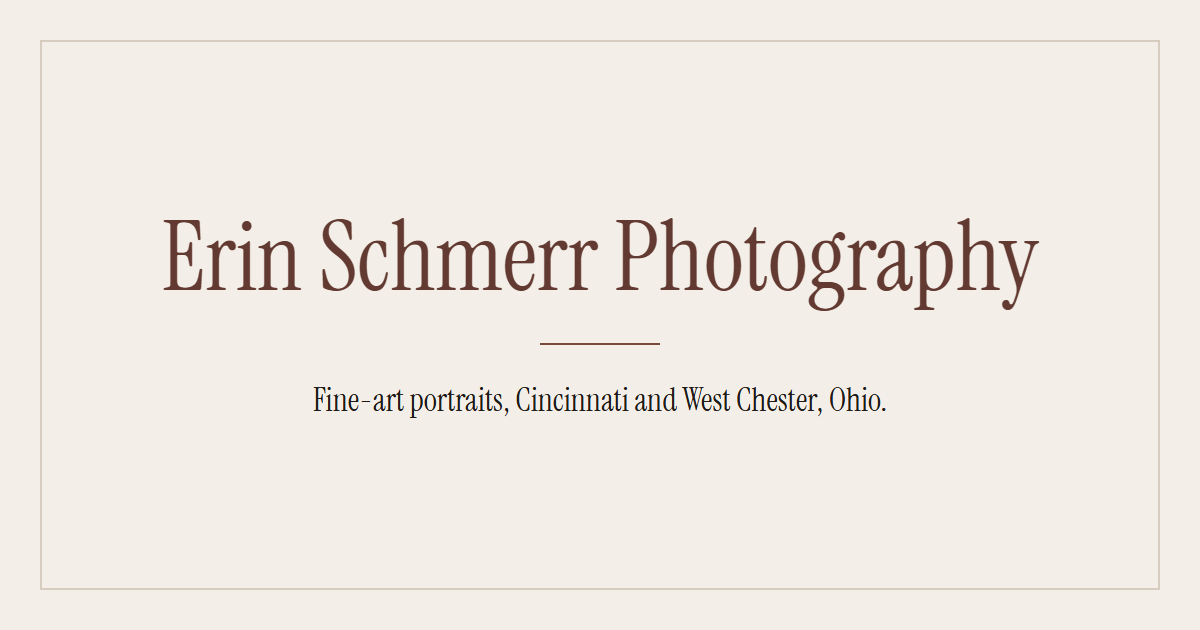
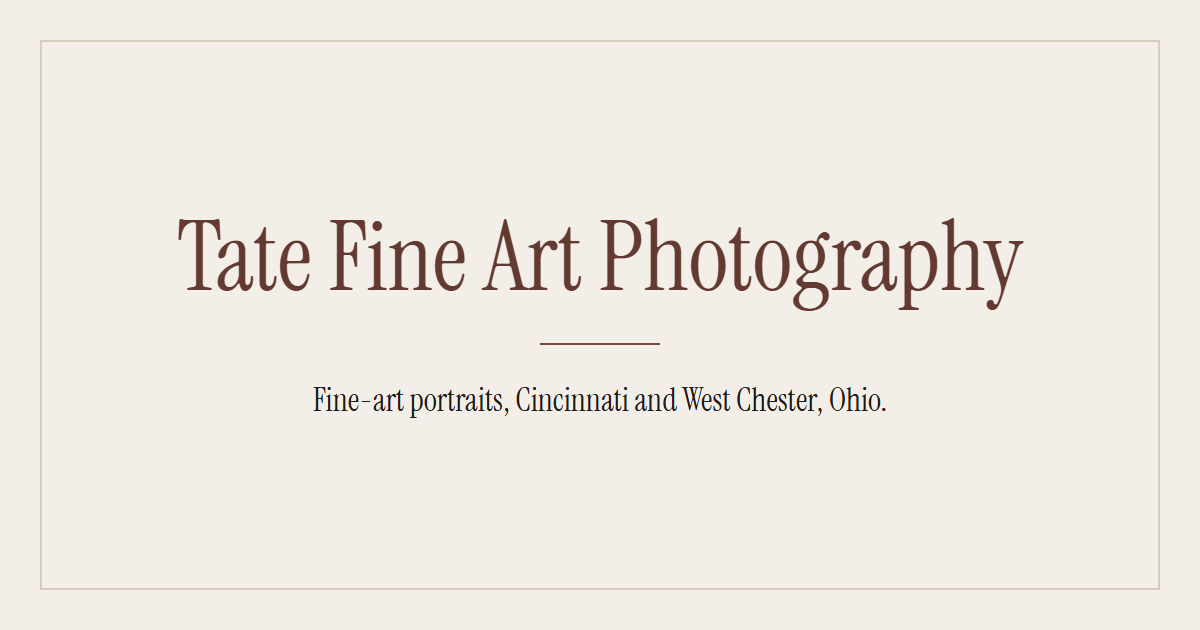
Brand: Tate Fine Art Photography
Her business name (renamed from Stellina in 2022, after her dad) replaces
'Erin Schmerr Photography' as the site name and wordmark: brand config
then apply-brand (site name, Studio title, print footer, OG default),
the drawn wordmark and favicon (build-wordmark.mjs: 'Tate' roman,
'Fine Art Photography' italic), the web manifest. Her own name stays in
the Person structured data. Site settings title was updated in Sanity
under the write protocol.

apply-brand now handles a light-only layout's single theme-color meta.

Changed region(s): [[0.1233, 0.3317, 0.8633, 0.5127]]

diff --git a/src/data/site.ts b/src/data/site.ts
@@ -20,7 +20,7 @@ function slugify(s: string): string {
 // All derived fields (studio, storageKeyPrefix, themeStorageKey) are computed
 // from `name` at module load time — they are never rewritten by the script and
 // can never go stale across reskins.
-const _name = 'Erin Schmerr Photography';
+const _name = 'Tate Fine Art Photography';
 const _domain = 'erin-schmerr-photography.nathanjnixon86.workers.dev';
 const _slug = slugify(_name);
 

diff --git a/src/styles/globals.css b/src/styles/globals.css
@@ -1516,7 +1516,7 @@ body::before {
 
   /* Print-only header + footer injected into every page. */
   body::after {
-    content: 'Erin Schmerr Photography · erin-schmerr-photography.nathanjnixon86.workers.dev';
+    content: 'Tate Fine Art Photography · erin-schmerr-photography.nathanjnixon86.workers.dev';
     display: block;
     margin-top: 0.5in;
     padding-top: 0.25in;

diff --git a/DESIGN.md b/DESIGN.md
@@ -1,5 +1,5 @@
 ---
-name: Erin Schmerr Photography, Soft Focus Editorial
+name: Tate Fine Art Photography, Soft Focus Editorial
 description: Warm paper, a big editorial serif, almost no chrome; photos resolve from blur into focus.
 colors:
   paper: '#F3EEE7'
@@ -31,7 +31,7 @@ components:
 
 # Design System: Soft Focus Editorial
 
-Direction chosen 2026-11-17 for the build on placeholder content. Two answers from the client can still move it: the brand name (wordmark only) and whether she would rather have a dark site (the site is light only since 2026-11-18; the dark tokens are still in the code, so bringing dark back is a small change). The CSS wins if this file and the code disagree: tokens live in `brand/brand.config.json`, written into `src/styles/globals.css` by `npm run apply-brand`; the site's own layer is `src/styles/erin.css`.
+Direction chosen 2026-11-17 for the build on placeholder content. The brand name is settled as Tate Fine Art Photography (2026-11-18; the wordmark sets "Tate" in Instrument Serif roman and "Fine Art Photography" in its italic, in Dusk). One answer from the client can still move it: whether she would rather have a dark site (the site is light only since 2026-11-18; the dark tokens are still in the code, so bringing dark back is a small change). The CSS wins if this file and the code disagree: tokens live in `brand/brand.config.json`, written into `src/styles/globals.css` by `npm run apply-brand`; the site's own layer is `src/styles/erin.css`.
 
 ## 1. Overview
 

diff --git a/CLAUDE.md b/CLAUDE.md
@@ -1,6 +1,6 @@
 # Erin Schmerr Photography website: CLAUDE.md
 
-Always-loaded rules for this repo, the portfolio site for Erin Schmerr, a fine-art portrait photographer in Cincinnati and West Chester, Ohio. This file stays under 200 lines on purpose. File-specific rules live in `.claude/rules/*.md` and load only when you touch matching files; long reference lives in `docs/claude/` and `docs/agent/` and is read on demand. The docs map at the bottom lists every one of them.
+Always-loaded rules for this repo, the portfolio site for Erin Schmerr, a fine-art portrait photographer in Cincinnati and West Chester, Ohio, whose business is **Tate Fine Art Photography** (the site name and wordmark since 2026-11-18; `brand/brand.config.json`, `scripts/build-wordmark.mjs`, Site settings title). The repo, Worker and pre-launch address keep the old `erin-schmerr-photography` slug. This file stays under 200 lines on purpose. File-specific rules live in `.claude/rules/*.md` and load only when you touch matching files; long reference lives in `docs/claude/` and `docs/agent/` and is read on demand. The docs map at the bottom lists every one of them.
 
 **This file is client-safe**: the repo is public and may be handed to the client, so it holds technical orientation only. Prices, contract text, strategy, opinions about people, private contacts and credentials never go in this repo (files, commits, PRs, issues, code comments).
 

diff --git a/PRODUCT.md b/PRODUCT.md
@@ -1,6 +1,6 @@
 # Product
 
-Design context for the Erin Schmerr Photography site. Visual system: `DESIGN.md`. Facts that are still waiting on the client are marked **[open]**; do not design around a guess for them.
+Design context for the Tate Fine Art Photography site (Erin Schmerr). Visual system: `DESIGN.md`. Facts that are still waiting on the client are marked **[open]**; do not design around a guess for them.
 
 ## Register
 
@@ -21,7 +21,7 @@ A credits-first editorial portfolio for Erin Schmerr, a fine-art portrait photog
 
 Dreamy, crafted, quiet. The voice is warm and first person, short sentences, no hard sell. The work does the impressing; the copy says who, where and how to book.
 
-Brand name and domain are **[open]** (the business has traded as Stellina Fine Art Photography; the site may use her own name). Every place the name appears reads from `brand/brand.config.json` and Site settings, so the choice is a config change.
+Brand name: **Tate Fine Art Photography** (decided 2026-11-18; she renamed the business from Stellina Fine Art Photography in 2022, after her dad). Her own name, Erin Schmerr, stays on the About page and in the Person structured data. Domain is **[open]**. Every place the name appears reads from `brand/brand.config.json` and Site settings; the drawn wordmark comes from `node scripts/build-wordmark.mjs`.
 
 ## Content model, in plain words
 

diff --git a/docs/agent/theme-and-color.md b/docs/agent/theme-and-color.md
@@ -2,7 +2,7 @@
 
 > Default palette tokens, shadcn token mapping, the three-state light/dark theme system, and the re-skin design seam.
 
-> **Erin Schmerr Photography is light only (decided 2026-11-18, CLAUDE.md rule 3).** The theme toggle is removed from the header and the phone menu, and the bootstrap in `BaseLayout.astro` defaults to light and ignores the system setting; only a stored `dark` (seeded by the shared dark test suites) turns dark on. `ThemeToggle.tsx` stays in the tree unused. The rest of this page describes the starter's three-state system, which is still in the code underneath.
+> **Tate Fine Art Photography is light only (decided 2026-11-18, CLAUDE.md rule 3).** The theme toggle is removed from the header and the phone menu, and the bootstrap in `BaseLayout.astro` defaults to light and ignores the system setting; only a stored `dark` (seeded by the shared dark test suites) turns dark on. `ThemeToggle.tsx` stays in the tree unused. The rest of this page describes the starter's three-state system, which is still in the code underneath.
 
 ## Default palette
 

diff --git a/README.md b/README.md
@@ -1,4 +1,4 @@
-# Erin Schmerr Photography
+# Tate Fine Art Photography (Erin Schmerr)
 
 The portfolio site for Erin Schmerr, a fine-art portrait photographer in Cincinnati and West Chester, Ohio. A credits-first editorial portfolio: stories (shoots) with their credits and publications, an archive of every image, a press page, and a session inquiry.
 
